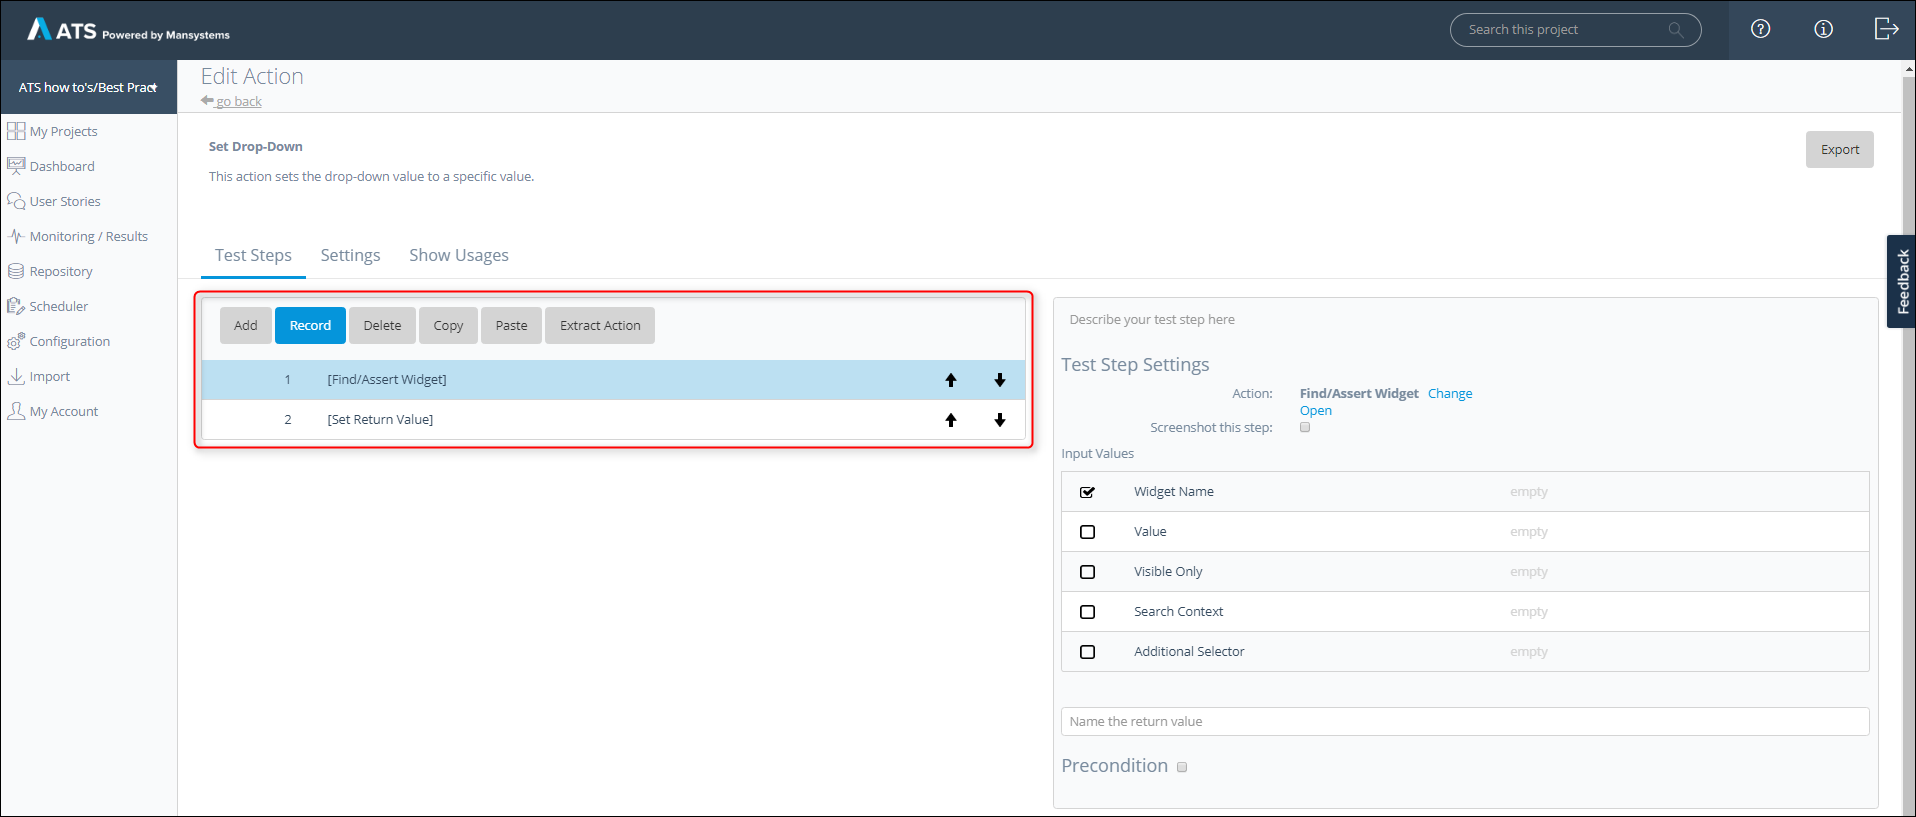
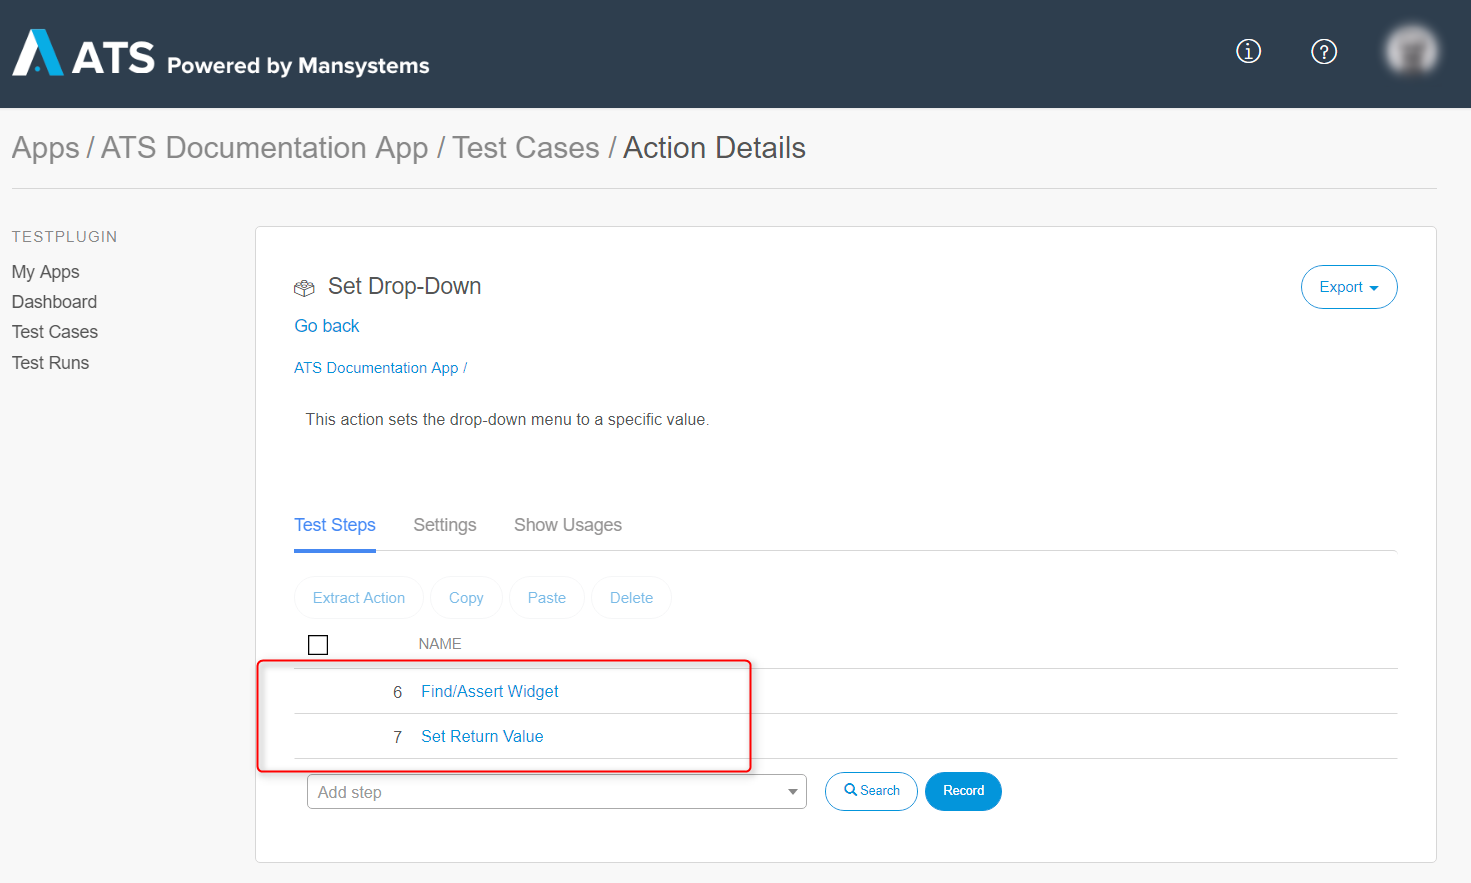
Rewritten custom action basics to 2

diff --git a/ats-public-documentation/howtos-2/custom-action-basics-2.md b/ats-public-documentation/howtos-2/custom-action-basics-2.md
@@ -35,18 +35,17 @@ The following sections describe how to create a custom action. There are two opt
 2. Click the **Actions** drop-down in the **Repository** tab:
 3. Select **New Action**.
     
-    ![](attachments/custom-action-basics/repository-add-action.png)
+    ![](attachments/custom-action-basics-2/repository-add-action.png)
 
     This opens the **Create new** dialog box:
     
-    ![](attachments/custom-action-basics/create-new-action-dialog.png)
+    ![](attachments/custom-action-basics-2/create-new-action-dialog.png)
 
-3. Select **Action** in the drop-down menu.
 4. Enter a name in the **Name** field (for example, *Set Drop-Down*). It is advisable to use a name that describes what the action does.
 5. Enter a description in the **Description** field (for example, *This action sets the drop-down menu to a specific value*). It is advisable to give each action a detailed description of what it does.
 6.  Click **Create**:
     
-    ![](attachments/custom-action-basics/create-new-action-dialog-complete.png)
+    ![](attachments/custom-action-basics-2/create-new-action-dialog-complete.png)
 
 You have now created a custom action from the repository.
 
@@ -54,27 +53,27 @@ You have now created a custom action from the repository.
 
 To use the **Extract Action** button, follow these steps:
 
-1.  Open your project in ATS and go to the **Repository**.
-2.  Select a test case or action and open it.
-3.  Select the test steps you want to combine in a custom action by holding <kbd>Ctrl</kbd> while clicking the test steps.
-4.  Click **Extract Action**:
+1. Open your app in ATS and go to **Test Cases**.
+2. Select a test case or action and open it.
+3. Select the test steps you want to combine in a custom action by clicking the checkbox in front of the step.
+4. Click **Extract Action**:
     
-    ![](attachments/custom-action-basics/test-case-extract-action.png)
+    ![](attachments/custom-action-basics-2/test-case-extract-action.png)
 
     This will open the **Action - Set Details** open.
-5.  Enter a name in the **Name** field (for example, *Set Drop-Down*).
-6.  Enter a description in the **Description** field (for example, *This action sets the drop-down menu to a specific value*).
-7.  Click **Close**:
+5. Enter a name in the **Name** field (for example, *Set Drop-Down*).
+6. Enter a description in the **Description** field (for example, *This action sets the drop-down menu to a specific value*).
+7. Click **Close**:
     
-    ![](attachments/custom-action-basics/test-case-action-set-details.png)
+    ![](attachments/custom-action-basics-2/test-case-action-set-details.png)
 
-8.  Select the newly created action and click **Open**:
+8. Select the newly created action and click **Open**:
     
-    ![](attachments/custom-action-basics/test-case-open-new-action.png)
+    ![](attachments/custom-action-basics-2/test-case-open-new-action.png)
 
-Both ways open the **Edit Action** page. The page works the same as the **Test Case** page. You can add test steps by clicking **Add** or **Record**.
+Both ways open the **Action Details** page. The page works the same as the **Test Case Details** page. You can add test steps by searching for an action in the test step or Clicking **Record**.
 
-![](attachments/custom-action-basics/edit-action-page-add-record.png)
+![](attachments/custom-action-basics-2/action-details-page-add-record.png)
 
 You now know how to create a custom action.
 
@@ -82,10 +81,10 @@ You now know how to create a custom action.
 
 To add parameters to your custom action, follow these steps:
 
-1.  Go to the **Edit Action** page of your action.
-2.  Click the **Settings** tab:
+1. Go to the **Action Details** page of your action.
+2. Click the **Settings** tab:
     
-    ![](attachments/custom-action-basics/edit-action-page-settings.png)
+    ![](attachments/custom-action-basics-2/action-details-page-settings.png)
 
 3. Follow the steps in the sections below for adding input and output parameters.
 
@@ -95,7 +94,7 @@ To add input parameters, follow these steps:
 
 1.  Click **New**:
     
-    ![](attachments/custom-action-basics/edit-action-page-settings-new.png)
+    ![](attachments/custom-action-basics-2/action-details-page-settings-new.png)
 
     This will open the **Edit Input Parameter** dialog box.
 
@@ -111,44 +110,43 @@ To add input parameters, follow these steps:
     You must make sure everybody understands what information they must enter.
     {{% /alert %}}
   
-4.  Select a data type from the **Datatype** drop-down menu (for example, **String**).
+4.  Select a data type from the **Datatype** drop-down menu (for example, **Text**).
 5.  Select a **Show as Password** option. This makes the parameter field unreadable. The default setting is **No**.
 6.  Select a **Required/Optional** option. For example, the **Widget Name** parameter is always required, otherwise the action does not work.
-7.  Leave the **Type** field set to **Default**.
-8.  Click **Save**:
+7.  Click **Save**:
     
-    ![](attachments/custom-action-basics/new-action-edit-input-parameter.png)
+    ![](attachments/custom-action-basics-2/new-action-edit-input-parameter.png)
 
 You have now created an input parameter. You can add as many input parameters as you need, but remember to keep the action simple.
 
 ### 4.2 Adding an Output Parameter
 
-1.  Click **Set**:
+1. Click **Set**:
     
-    ![](attachments/custom-action-basics/edit-action-page-settings-set.png)
+    ![](attachments/custom-action-basics-2/action-details-page-settings-set.png)
 
     This opens the different **Output Parameter** fields.
 
-2.  Enter a name in the **Name** field (for example, *Element*).
+2. Enter a name in the **Name** field (for example, *Element*).
 
     {{% alert type="info" %}}
     The user must know what the action returns, so be clear in the name that you enter.
     {{% /alert %}}
   
-3.  Enter a description in the **Description** field. Use this field to give a more detailed description of what is returned.
-4.  Select a data type from the **Datatype** drop-down menu (for example, *Web Element*).
-5.  Select a **Required/Optional** option. Only use **Optional** if the action still works whebn nothing is returned.
+3. Enter a description in the **Description** field. Use this field to give a more detailed description of what is returned.
+4. Select a data type from the **Datatype** drop-down menu (for example, *Page Element*).
+5. Select a **Required/Optional** option. Only use **Optional** if the action still works whebn nothing is returned.
     
-    ![](attachments/custom-action-basics/new-action-output-parameter-complete.png)
+    ![](attachments/custom-action-basics-2/new-action-output-parameter-complete.png)
 
-6.  The **Output Parameter** requires additional steps. Go to the **Test Steps** tab and click **Add**.
-7.  Add the [Find/Assert Widget](../refguide-ats-1/findassert-widget) action and the [Set Return Value](../refguide-ats-1/set-return-value) action.
+6. The **Output Parameter** requires additional steps. Go to the **Test Steps** tab and click **Add**.
+7. Add the [Find/Assert Widget](../refguide-ats-1/findassert-widget) action and the [Set Return Value](../refguide-ats-1/set-return-value) action.
     
-    ![](attachments/custom-action-basics/output-parameter-actions.png)
+    ![](attachments/custom-action-basics-2/output-parameter-actions.png)
 
 8.  For ATS to return the outcome of a test step as an **Output Parameter**, it needs to know what it must return. ATS returns the **Value** connected to the **Set Return Value** action. Now connect the outcome of test step 1 to the **Set Return Value** action.
     
-    ![](attachments/custom-action-basics/set-return-value-parameter.png)
+    ![](attachments/custom-action-basics-2/set-return-value-parameter.png)
 
     ATS now returns the outcome of test step 1.
   
@@ -163,14 +161,10 @@ You now know how to add parameters to your custom action.
 To connect the input parameter, follow these steps:
 
 1.  Select the test step to which you want to connect an input parameter.
-2.  Open the **Edit Input Value** dialog box:
+2.  Open the parameter drop-down.
+3.  Select the input parameter you want to connect.
     
-    ![](attachments/custom-action-basics/edit-value-input-dialog.png)
-
-3.  Click **Action Input Parameter** and select the input parameter you want to connect.
-4.  Click **Save**
-    
-    ![](attachments/custom-action-basics/action-input-parameter-edit.png)
+   ![](attachments/custom-action-basics-2/action-connect-input-parameter.png)
 
 You have now connected your input parameter.
  
